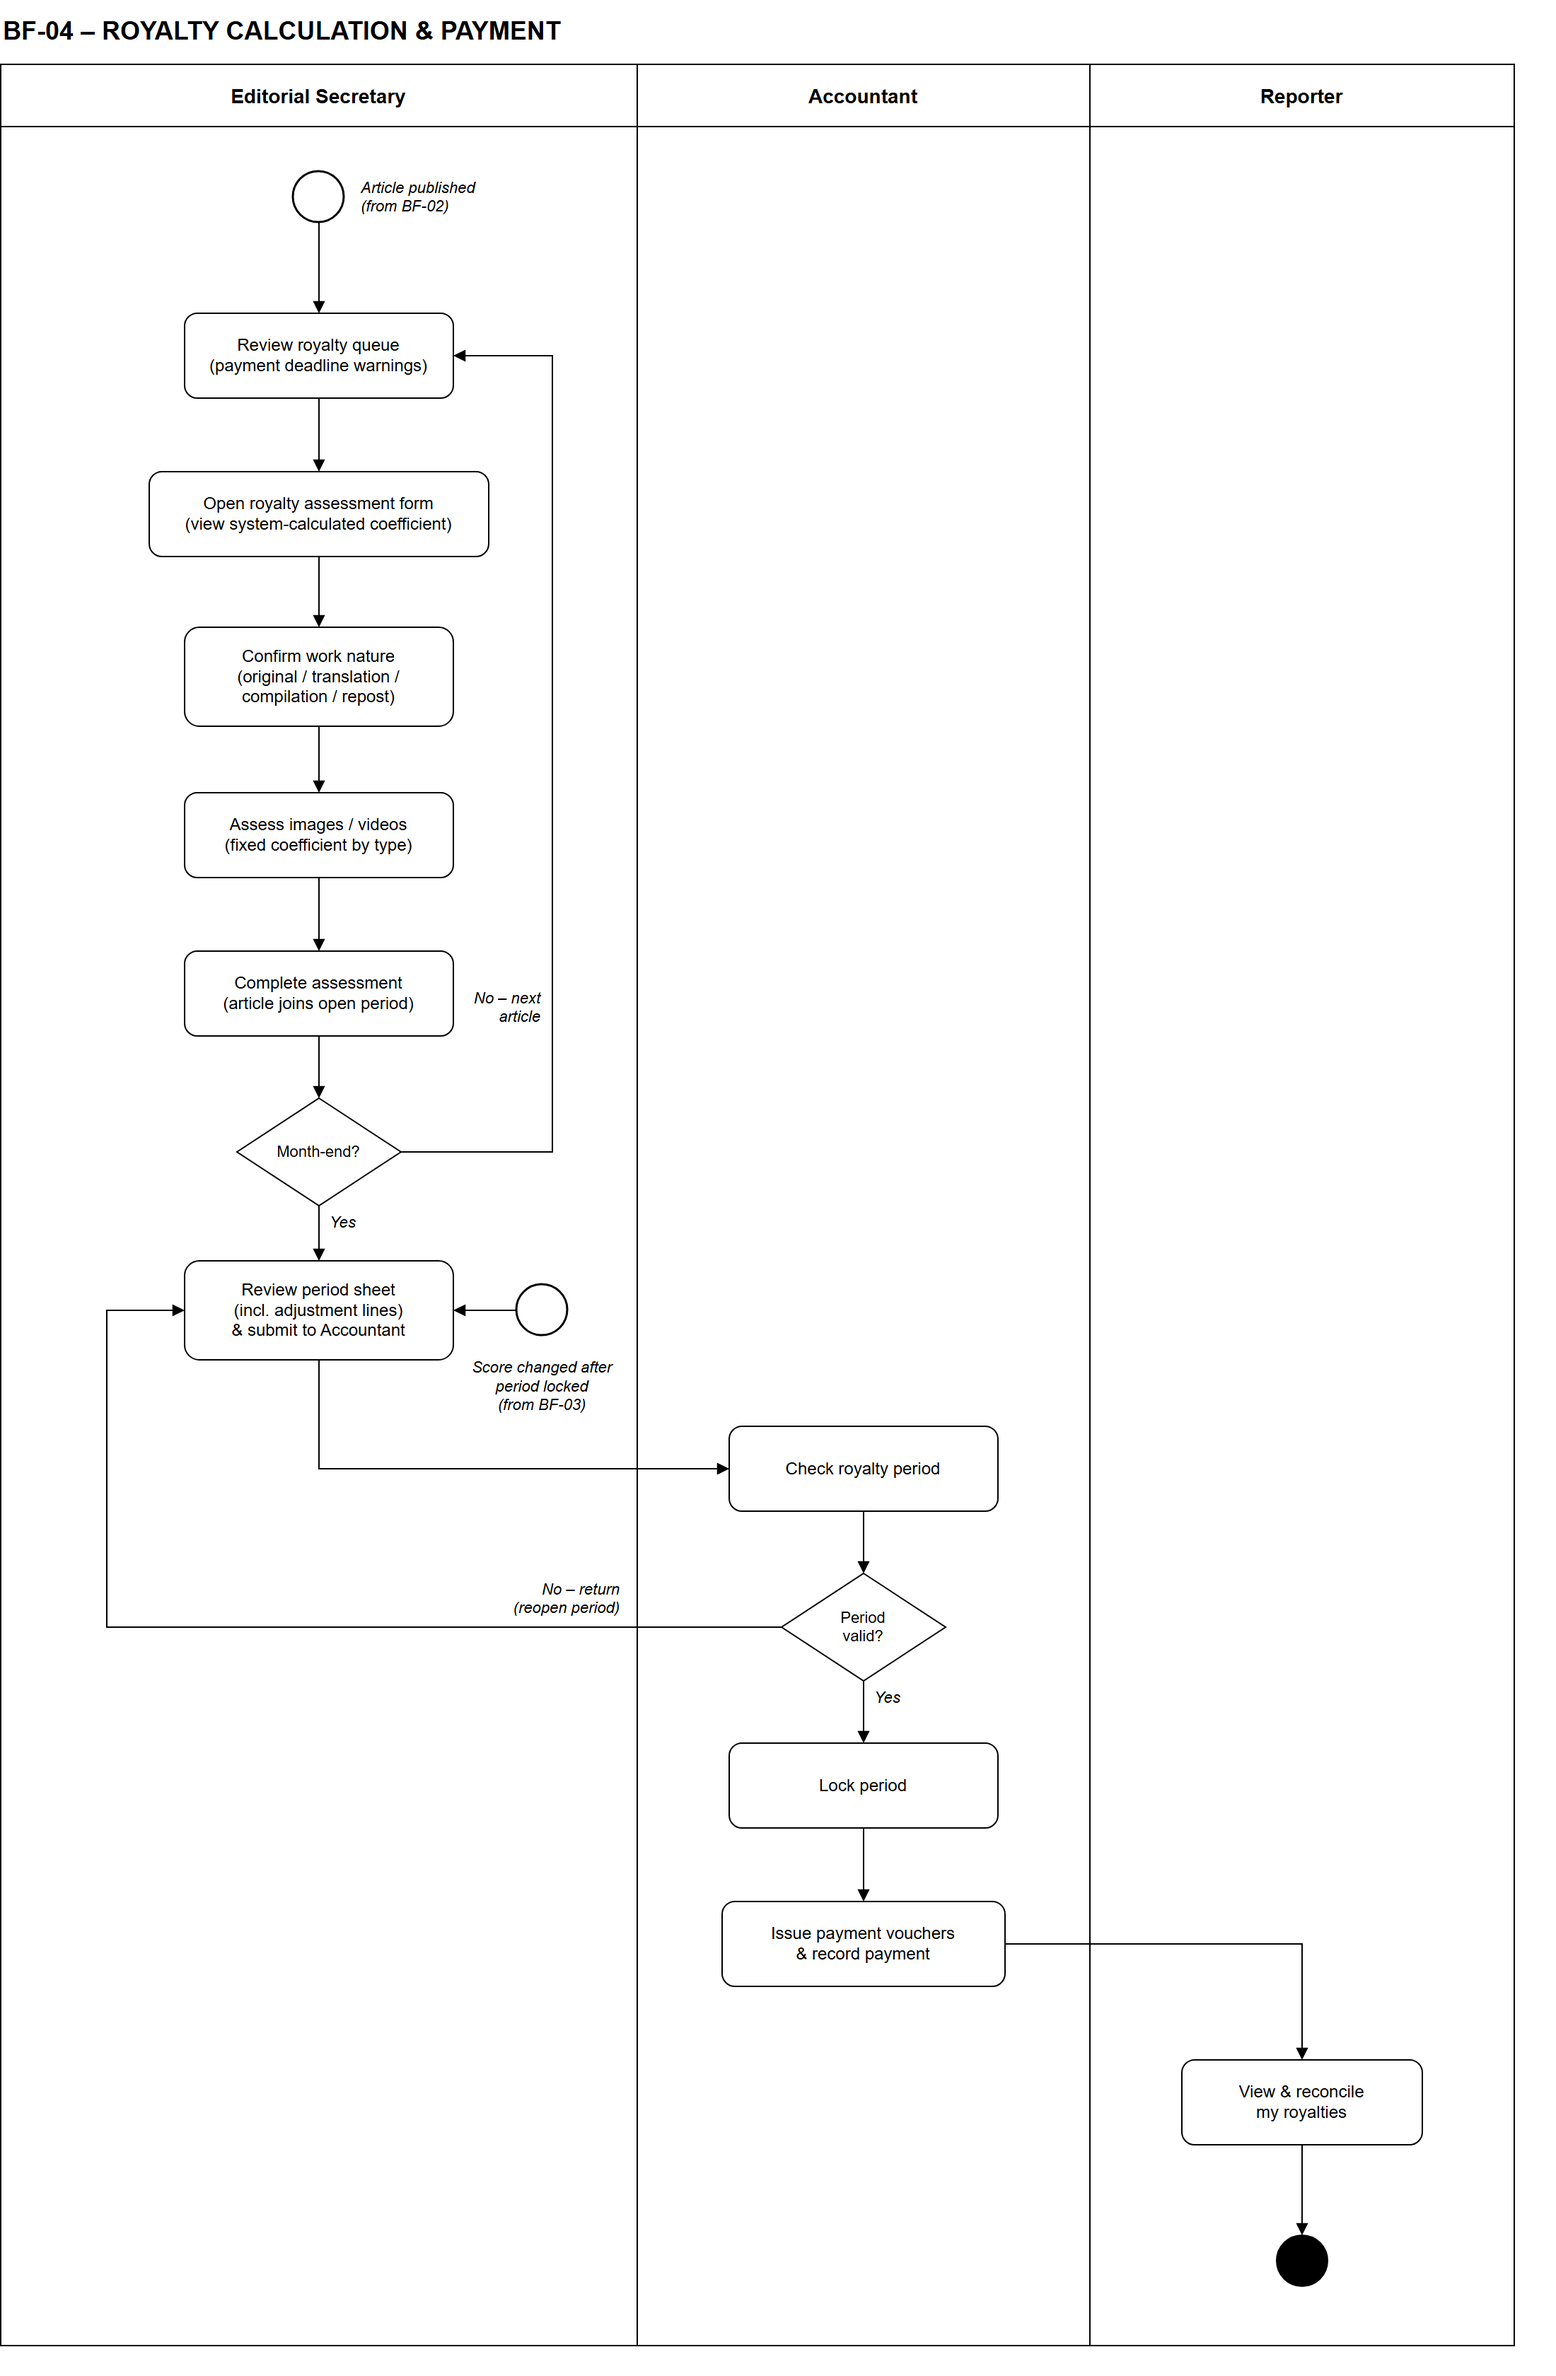
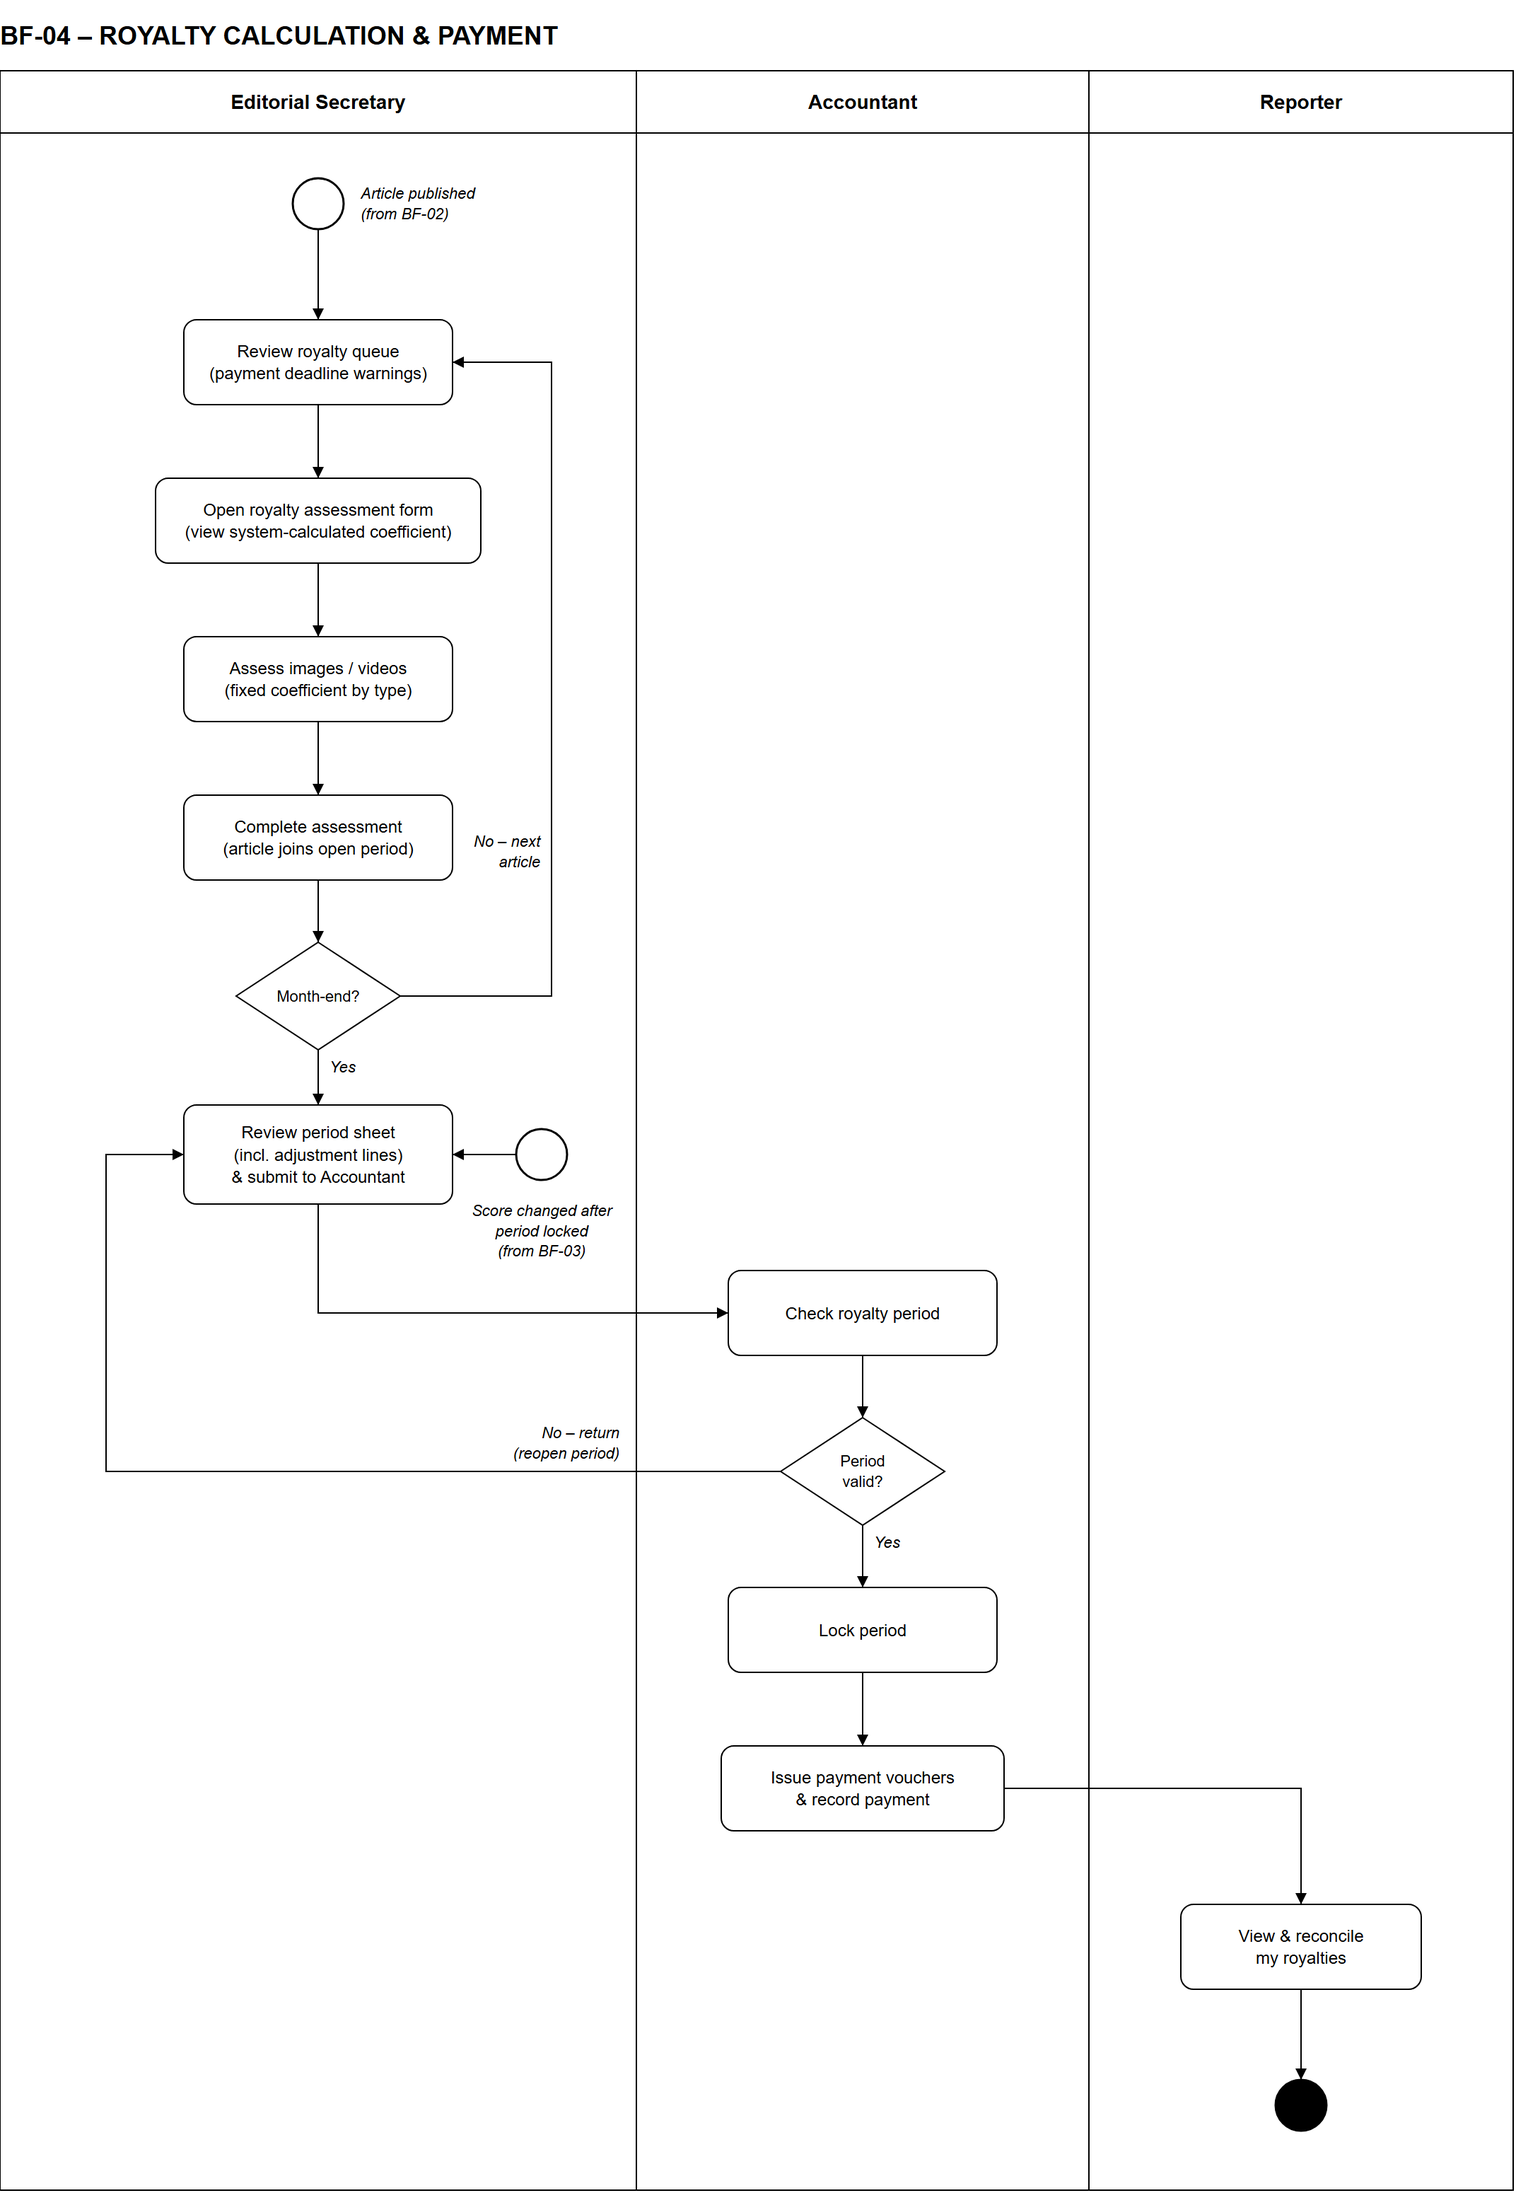
push

diff --git a/server/src/test/java/com/swp391/kpi/service/RoyaltyGradingServiceTest.java b/server/src/test/java/com/swp391/kpi/service/RoyaltyGradingServiceTest.java
@@ -142,9 +142,9 @@ class RoyaltyGradingServiceTest {
     void previewGradingCalculatesArticleAndMediaAmounts() {
         stubArticle(royaltyArticle(null, null));
 
-        RoyaltyGradingResponse preview = royaltyGradingService.previewGrading(ARTICLE_ID, null);
+        RoyaltyGradingResponse preview = royaltyGradingService.previewGrading(ARTICLE_ID);
 
-        // khong gui nature -> dung tinh chat PV khai (ORIGINAL)
+        // tinh chat lay theo PV khai (ORIGINAL), Thu ky khong chon lai
         assertEquals(RoyaltyNature.ORIGINAL, preview.getNature());
         // 5.00 x 82.50 / 100 = 4.125 -> 4.13; x 100% x 100% = 4.13
         assertMoney("4.13", preview.getSuggestedFactor());
@@ -168,12 +168,15 @@ class RoyaltyGradingServiceTest {
     }
 
     @Test
-    void previewGradingUsesNatureConfirmedBySecretary() {
-        stubArticle(royaltyArticle(null, null));
+    void previewGradingUsesNatureDeclaredByReporter() {
+        ArticleRoyaltyInfoResponse translated = royaltyArticle(null, null);
+        translated.setDeclaredNature("TRANSLATION");   // PV khai bai dich, khoa luc nop (BR-IN-03)
+        stubArticle(translated);
 
-        RoyaltyGradingResponse preview = royaltyGradingService.previewGrading(ARTICLE_ID, RoyaltyNature.TRANSLATION);
+        RoyaltyGradingResponse preview = royaltyGradingService.previewGrading(ARTICLE_ID);
 
         // 4.13 x 70% = 2.891 -> 2.89; 2.89 x 234.000 = 676.260 -> 676.000
+        assertEquals(RoyaltyNature.TRANSLATION, preview.getNature());
         assertMoney("70", preview.getNatureRate());
         assertMoney("2.89", preview.getFinalFactor());
         assertMoney("676000", preview.getArticleAmount());
@@ -187,7 +190,7 @@ class RoyaltyGradingServiceTest {
         stubArticle(royaltyArticle(1, new BigDecimal("80.00")));
         when(eventRepository.findById(1)).thenReturn(Optional.of(storm));
 
-        RoyaltyGradingResponse preview = royaltyGradingService.previewGrading(ARTICLE_ID, RoyaltyNature.ORIGINAL);
+        RoyaltyGradingResponse preview = royaltyGradingService.previewGrading(ARTICLE_ID);
 
         // diem 82.50 < 90 nen bi giam con 80%: 4.13 x 80% = 3.304 -> 3.30; x 234.000 = 772.200 -> 772.000
         assertMoney("80.00", preview.getSaturationRate());
@@ -202,7 +205,7 @@ class RoyaltyGradingServiceTest {
                 .thenReturn(Optional.empty());
 
         BusinessException error = assertThrows(BusinessException.class,
-                () -> royaltyGradingService.previewGrading(ARTICLE_ID, null));
+                () -> royaltyGradingService.previewGrading(ARTICLE_ID));
 
         assertTrue(error.getMessage().contains("12/10/2026"));
     }
@@ -372,7 +375,6 @@ class RoyaltyGradingServiceTest {
     private static RoyaltyGradingCreateRequest createRequest() {
         RoyaltyGradingCreateRequest request = new RoyaltyGradingCreateRequest();
         request.setArticleId(ARTICLE_ID);
-        request.setNature(RoyaltyNature.ORIGINAL);
         return request;
     }
 

diff --git a/docs/SRS_BF04_Royalty.md b/docs/SRS_BF04_Royalty.md
@@ -11,7 +11,7 @@
 
 Mô tả sơ đồ (3 làn: Editorial Secretary | Accountant | Reporter):
 
-1. Secretary (Start: Article published, from BF-02): Review royalty queue (payment deadline warnings) → Open royalty assessment form (view system-calculated coefficient) → Confirm work nature (original / translation / compilation / repost) → Assess images / videos (fixed coefficient by type) → Complete assessment (article joins open period) → **Month-end?** No → bài tiếp theo (quay lại bước 1).
+1. Secretary (Start: Article published, from BF-02): Review royalty queue (payment deadline warnings) → Open royalty assessment form (view system-calculated coefficient) → Assess images / videos (fixed coefficient by type) → Complete assessment (article joins open period) → **Month-end?** No → bài tiếp theo (quay lại bước 1).
 2. Yes → Review period sheet (incl. adjustment lines) & submit to Accountant. Một điểm vào khác: *Score changed after period locked (from BF-03)* cũng đi vào bước xem bảng kỳ.
 3. Accountant: Check royalty period → **Period valid?**
    - No → return (reopen period) → quay lại bước 2 của Secretary.
@@ -35,7 +35,7 @@ Primary actors: Editorial Secretary, Accountant · Others: Reporter, Admin · 12
 | ID | Use Case | Feature | Use Case Description |
 |---|---|---|---|
 | 46 | View Articles Pending Grading | Royalty Grading | The Editorial Secretary views published articles that have not been graded yet, with payment-deadline warnings. |
-| 47 | Grade Article Royalty | Royalty Grading | The system calculates the coefficient = category base factor × score / 100, minimum 1, and the Secretary confirms the nature (translation 70%, compilation 50%, repost 30%). Saturated events reduce the coefficient by submission order. When grading is complete, the article joins the open period. |
+| 47 | Grade Article Royalty | Royalty Grading | The system calculates the coefficient = category base factor × score / 100, minimum 1, multiplied by the nature rate of the nature declared by the reporter (translation 70%, compilation 50%, repost 30%). Saturated events reduce the coefficient by submission order. When grading is complete, the article joins the open period. |
 | 48 | Grade Media Royalty | Royalty Grading | The Secretary grades each image/video with the fixed coefficient of its media type. Reused or external media receive no royalty. |
 | 49 | View Royalty Periods | Royalty Period | The Secretary and the Accountant view monthly royalty periods with status and total amount. |
 | 50 | Close Royalty Period | Royalty Period | At month-end, the Secretary reviews the period sheet (including adjustment lines) and submits it to the Accountant. |
@@ -60,11 +60,10 @@ Primary actors: Editorial Secretary, Accountant · Others: Reporter, Admin · 12
 | Business Rules | BR-RY-01 … 06 |
 
 **Normal Flow**
-1. System shows the article, score, category and nature, and shows the coefficient calculated from the score (BR-RY-01).
-2. Secretary confirms the nature.
-3. System calculates final factor and amount (BR-RY-02, 03).
-4. Secretary grades images/videos if any (BR-RY-04).
-5. Secretary clicks Complete; system saves and adds the article to the OPEN period (BR-RY-05).
+1. System shows the article, score, category and the nature declared by the reporter, and shows the coefficient calculated from the score (BR-RY-01).
+2. System calculates final factor and amount from the declared nature (BR-RY-02, 03).
+3. Secretary grades images/videos if any (BR-RY-04).
+4. Secretary clicks Complete; system saves and adds the article to the OPEN period (BR-RY-05).
 
 **Alternative / Exceptions**
 - A1 Score changed after grading (BF-03): a new version is created; if the period is LOCKED the difference goes to the next period (BR-RY-06).
@@ -142,6 +141,7 @@ Simple view and configuration use cases (UC-46, 48, 49, 51, 52, 55, 56, 57) are 
 
 > **Ghi chú:**
 > - BR-RY-01 đã đổi theo quyết định của nhóm (13/10/2026): bỏ chia bậc điểm 90/70 (100/80/60%), hệ số = hệ số chuẩn thể loại × điểm / 100, hệ thống tự tính, Thư ký **không** nâng được nữa (nên bỏ luôn UC-47 A1 cũ). PR `[DB]` ngày 18/10/2026 đã bỏ tham số `SCORE_TIER_*`, `TIER_RATE_*`, sửa comment bảng `royalty_gradings` và bỏ cột `genres.max_factor`. Cột `tier_rate` giữ lại, lưu bằng điểm (cho phép 0); `applied_factor` luôn bằng `suggested_factor`.
+> - Bỏ bước Thư ký xác nhận tính chất bài (24/10/2026, commit `0032f57`): tính chất lấy thẳng từ `articles.declared_nature` (phóng viên khai lúc nộp bài), Thư ký không chọn lại. Swimlane đã vẽ lại bỏ ô *Confirm work nature*; file nguồn `srs-images/bf04-swimlane.drawio`.
 > - Hạn chi nhuận bút (UC-46): SRS không ghi số ngày. Nhóm chốt (14/10/2026) tham số `PAYMENT_DEADLINE_DAYS` = 30 ngày kể từ ngày đăng, cảnh báo khi còn ≤ `PAYMENT_WARN_DAYS` = 7 ngày.
 > - UC-53 A1 ghi "period goes back to OPEN" khi Kế toán trả lại; swimlane ghi "return (reopen period)". Hai chỗ khớp nhau.
 > - Làm tròn chia đồng tác giả: BR-RY-03 ghi "rounded to 1,000 VND", GBR-10 nói rõ là **làm tròn xuống (FLOOR)**, phần dư dồn cho tác giả chính.

diff --git a/docs/ProjectTracking.md b/docs/ProjectTracking.md
@@ -55,7 +55,7 @@ Phối hợp: *Royalty Estimate* của Minh (BF1, Iter3) gọi service nhuận b
 
 | Dòng Excel | Excel đang ghi | Đúng theo SRS / schema |
 |---|---|---|
-| Functions 24, Use Case 52 | Thư ký *set/adjust* hệ số, kiểm theo khung hệ số thể loại | Hệ thống tự tính hệ số = hệ số chuẩn thể loại × điểm / 100. Thư ký chỉ xác nhận tính chất bài (BR-RY-01 mới) |
+| Functions 24, Use Case 52 | Thư ký *set/adjust* hệ số, kiểm theo khung hệ số thể loại | Hệ thống tự tính hệ số = hệ số chuẩn thể loại × điểm / 100. Tính chất bài lấy theo phóng viên khai, Thư ký không sửa hệ số (BR-RY-01 mới, bỏ bước xác nhận tính chất 24/10/2026) |
 | Functions 21, Use Case 61 | Admin đặt hệ số **min/max** cho ảnh/video | Mỗi loại (`media_kind`) có **1 hệ số cố định** `media_factors.factor` (BR-RY-04, UC-56) |
 | Functions 28, Use Case 58 | Lúc *Lock* hệ thống mới tính tiền và chia theo % | Tiền và các dòng chia cho từng tác giả có ngay **khi chấm xong** (UC-47). *Lock* chỉ khoá số liệu và tạo phiếu chi UNPAID (UC-53) |
 | Functions 23, Use Case 51 | Bài đã đăng **của một kỳ** | Bài đã đăng **chưa chấm**, có cảnh báo hạn chi (UC-46). Bài chỉ vào kỳ khi chấm xong (BR-RY-05) |

diff --git a/docs/SRS_Overview.md b/docs/SRS_Overview.md
@@ -214,7 +214,7 @@ Chi tiết từng luồng (swimlane, UC, luật) nằm trong file riêng của l
 | 3 | Editor | Score assigned articles by criteria, then accept, return or reject them; perform blind re-evaluations when assigned. |
 | 4 | Head of Editorial Department | Assign evaluators, review and approve evaluation results before scores are finalized, and view KPI reports. |
 | 5 | Accountant | Manage unit prices, review monthly royalty statements (return or lock the period), and record payments. |
-| 6 | Editorial Secretary | Grade royalty for published articles (confirm the nature, grade images/videos), review the monthly royalty statement and submit the period to the Accountant. |
+| 6 | Editorial Secretary | Grade royalty for published articles (articles and images/videos), review the monthly royalty statement and submit the period to the Accountant. |
 | 7 | System (Timer) | Run scheduled jobs: expire co-author confirmations after 3 days and close the appeal window after 7 days. |
 
 ### 4.2 Use Cases (UC) — mục lục
